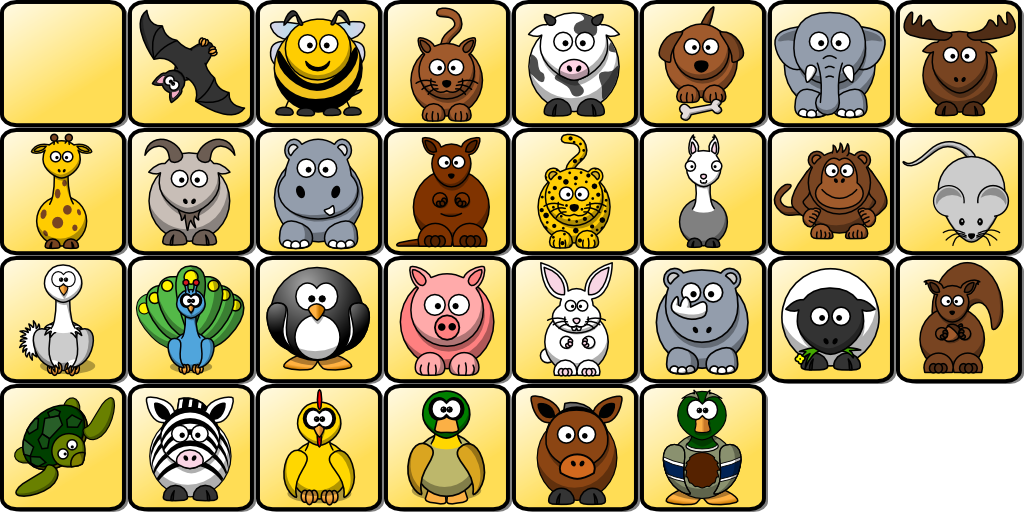
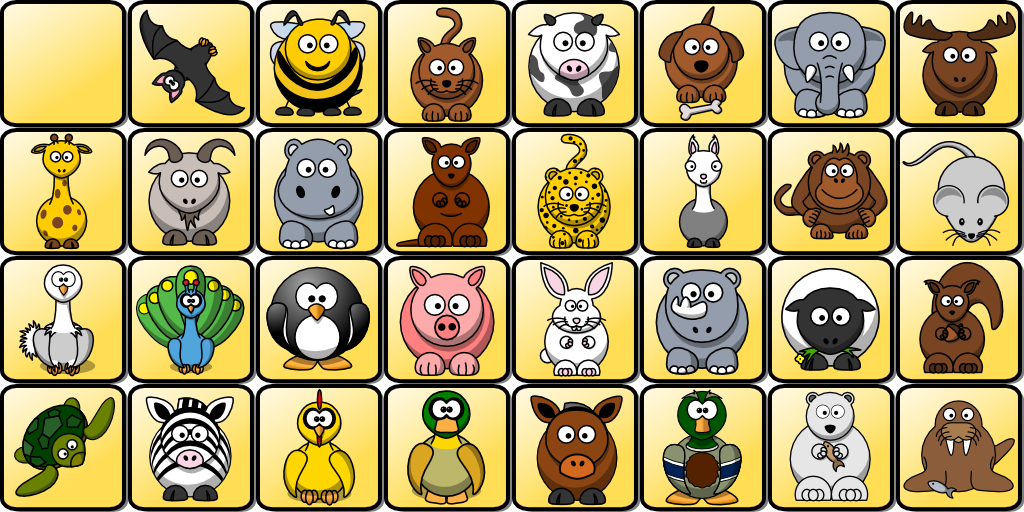
New card

Changed region(s): [[0.75, 0.75, 1.0, 1.0]]

diff --git a/src/com/reindeermobile/pexeso/view/GameScene.java b/src/com/reindeermobile/pexeso/view/GameScene.java
@@ -26,7 +26,7 @@ import android.util.Log;
 
 public class GameScene extends Scene {
     private static final int PAIRS = 6;
-    private static final int CARD_NUMBERS = 29;
+    private static final int CARD_NUMBERS = 31;
     private static final int START_Y = 70;
     private static final int START_X = 20;
     private static final float SCALE = 1.15f;
